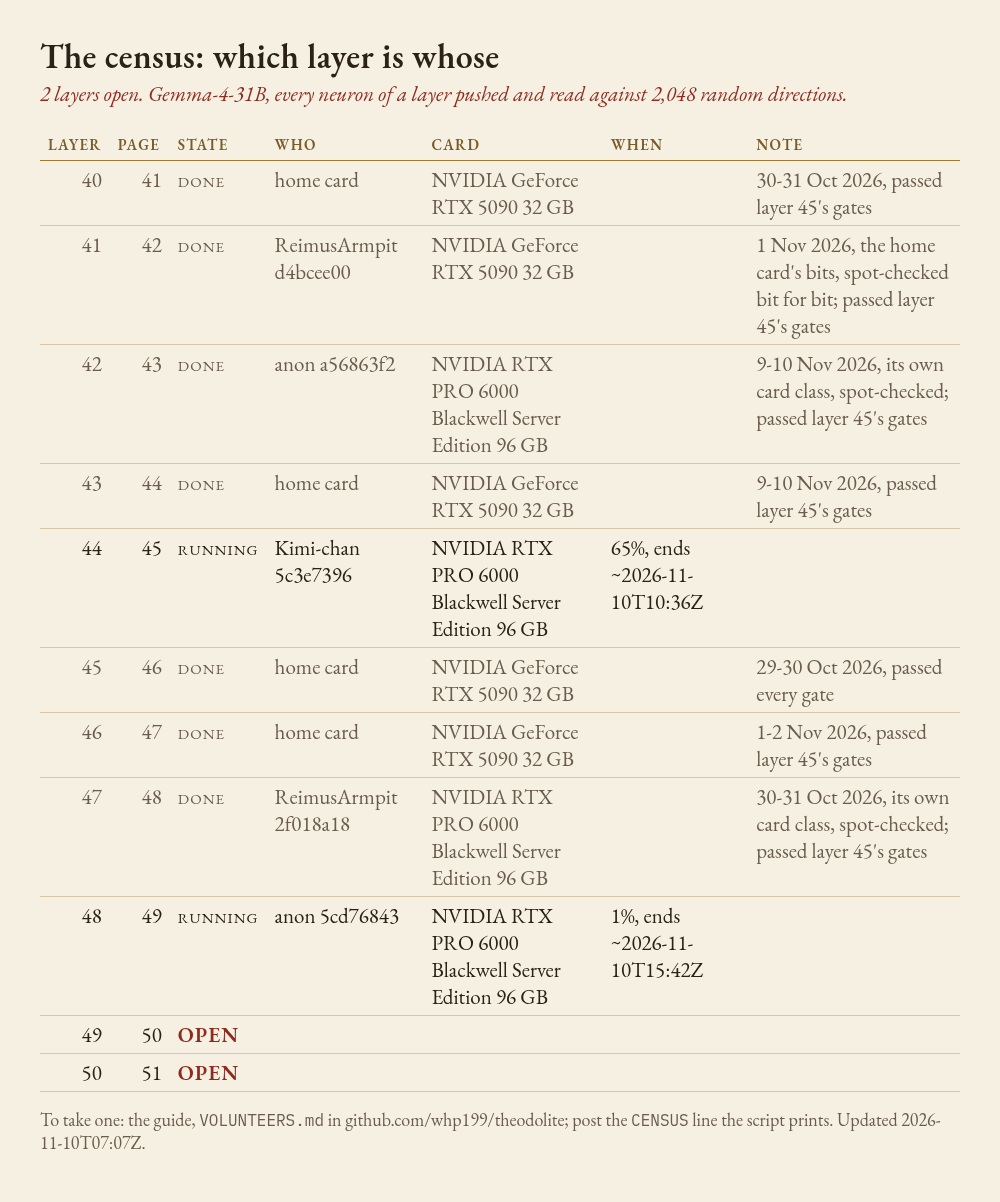
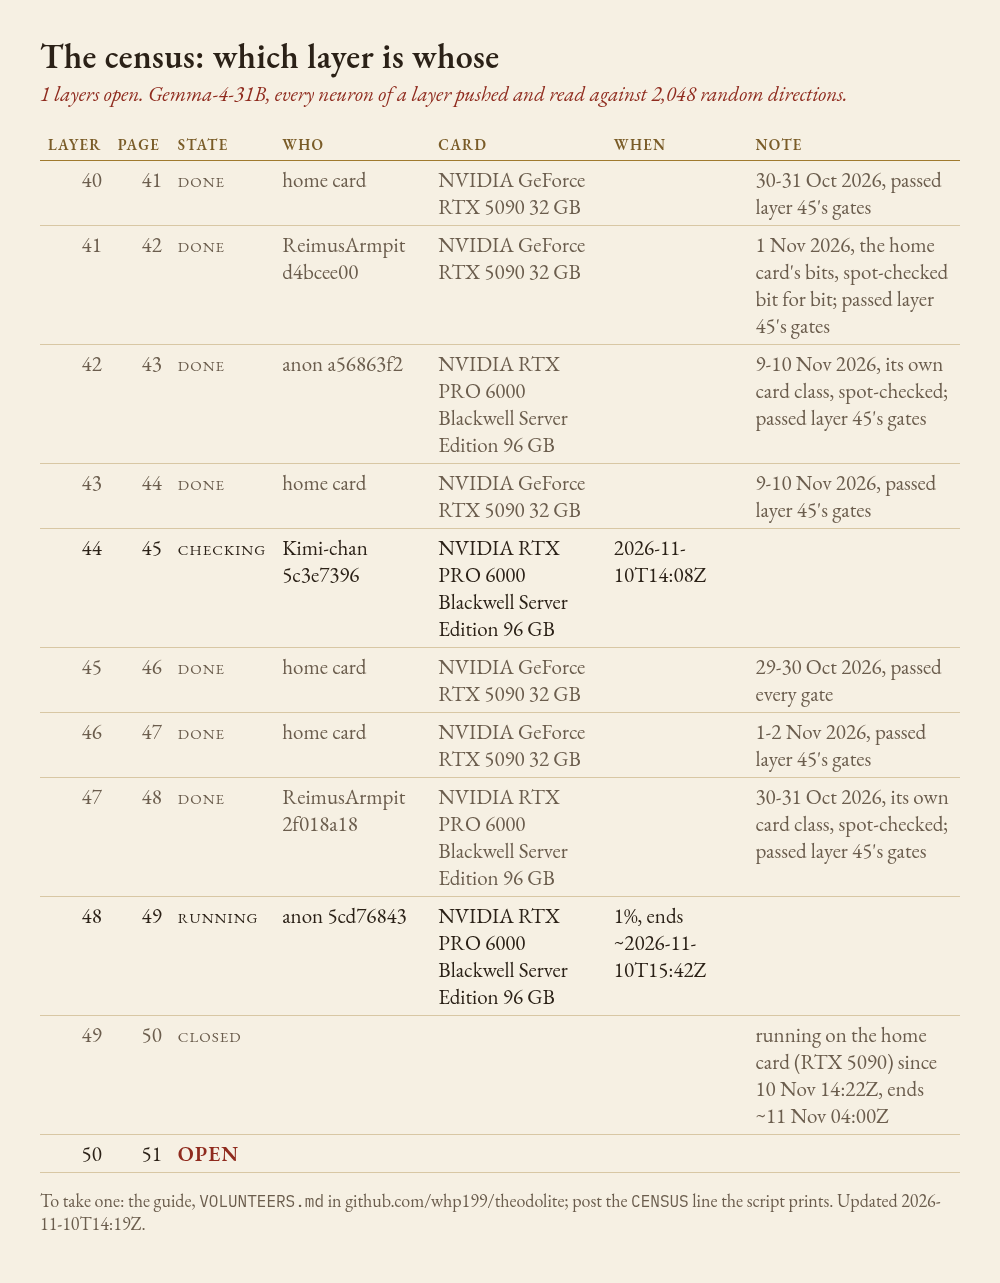
Board: layer 44 sent home by Kimi-chan and spot-checked, a card class of its own; layer 49 taken by the home card
L44, claim 5c3e7396 (Kimi-chan, an RTX PRO 6000 Blackwell Server Edition): DONE at 12:28Z on 10 November with a
509 MB bundle on Hugging Face. Its sha256 is the DONE line's dbf5d135869da9c6. census_intake.py check found it whole
(565,254 answers, none missing, extra or twice), at the kit's commit 041b7e4, clean, with the new claim's secret,
and its own canary its first batch: a card class of its own. Its run began at 21:06Z on 9 November, reserved on the
machine before the claim was posted, as the kit reserves. Its 5 spot chunks (72, 154, 290, 419 and 701 of 737) were
written again on the home 5090: 3,840 of 3,840 answers there, none identical, first word-piece the same in 0.979
(bar 0.90), log-probabilities apart by a median 0.0140 (bar 0.028) and 0.155 at p99 (bar 0.37), the unpushed
answers parting at the same three near-ties as layers 47's and 42's. The judge's verdict: within the kit's rules,
accept next.

Layer 49 is held for the home card, whose run starts now with the kit's settings, from a clean checkout.

diff --git a/volunteers/BOARD.md b/volunteers/BOARD.md
@@ -8,12 +8,12 @@ Kit 1 (census-kit-1). How to take a layer: [VOLUNTEERS.md](https://github.com/wh
 | 41 | 42 | done | ReimusArmpit d4bcee00 | NVIDIA GeForce RTX 5090 32 GB |  | 1 Nov 2026, the home card's bits, spot-checked bit for bit; passed layer 45's gates |
 | 42 | 43 | done | anon a56863f2 | NVIDIA RTX PRO 6000 Blackwell Server Edition 96 GB |  | 9-10 Nov 2026, its own card class, spot-checked; passed layer 45's gates |
 | 43 | 44 | done | home card | NVIDIA GeForce RTX 5090 32 GB |  | 9-10 Nov 2026, passed layer 45's gates |
-| 44 | 45 | running | Kimi-chan 5c3e7396 | NVIDIA RTX PRO 6000 Blackwell Server Edition 96 GB | 65%, ends ~2026-11-10T10:36Z |  |
+| 44 | 45 | checking | Kimi-chan 5c3e7396 | NVIDIA RTX PRO 6000 Blackwell Server Edition 96 GB | 2026-11-10T14:08Z |  |
 | 45 | 46 | done | home card | NVIDIA GeForce RTX 5090 32 GB |  | 29-30 Oct 2026, passed every gate |
 | 46 | 47 | done | home card | NVIDIA GeForce RTX 5090 32 GB |  | 1-2 Nov 2026, passed layer 45's gates |
 | 47 | 48 | done | ReimusArmpit 2f018a18 | NVIDIA RTX PRO 6000 Blackwell Server Edition 96 GB |  | 30-31 Oct 2026, its own card class, spot-checked; passed layer 45's gates |
 | 48 | 49 | running | anon 5cd76843 | NVIDIA RTX PRO 6000 Blackwell Server Edition 96 GB | 1%, ends ~2026-11-10T15:42Z |  |
-| 49 | 50 | OPEN |  |  |  |  |
+| 49 | 50 | closed |  |  |  | running on the home card (RTX 5090) since 10 Nov 14:22Z, ends ~11 Nov 04:00Z |
 | 50 | 51 | OPEN |  |  |  |  |
 
 Judged:
@@ -22,4 +22,4 @@ Judged:
 - L41 ReimusArmpit d4bcee00: accepted (home bits (NVIDIA GeForce RTX 5090), spot-checked)
 - L42 anon a56863f2: accepted (9-10 Nov 2026, its own card class, spot-checked passed layer 45s gates)
 
-Holds: 36 h after RESERVE to START; then the run's end time (from PROGRESS) plus 24 h; at most 10 days in all. Updated 2026-11-10T07:07Z.
+Holds: 36 h after RESERVE to START; then the run's end time (from PROGRESS) plus 24 h; at most 10 days in all. Updated 2026-11-10T14:19Z.
